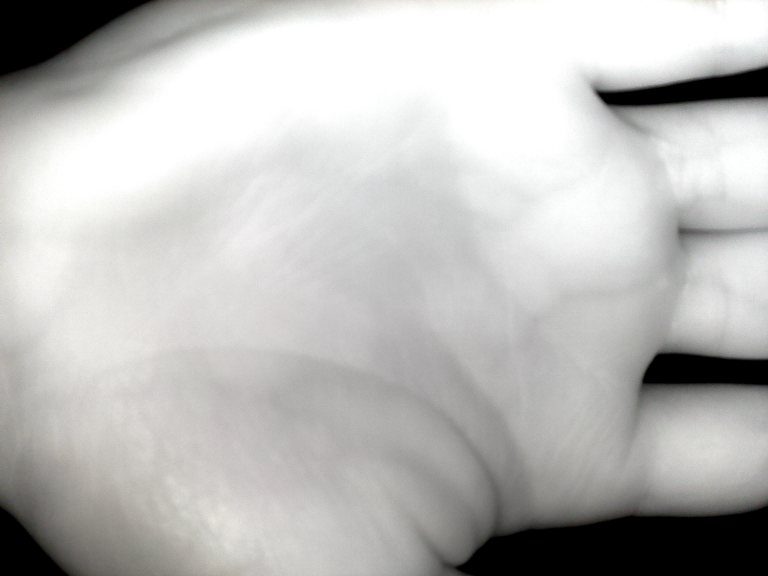
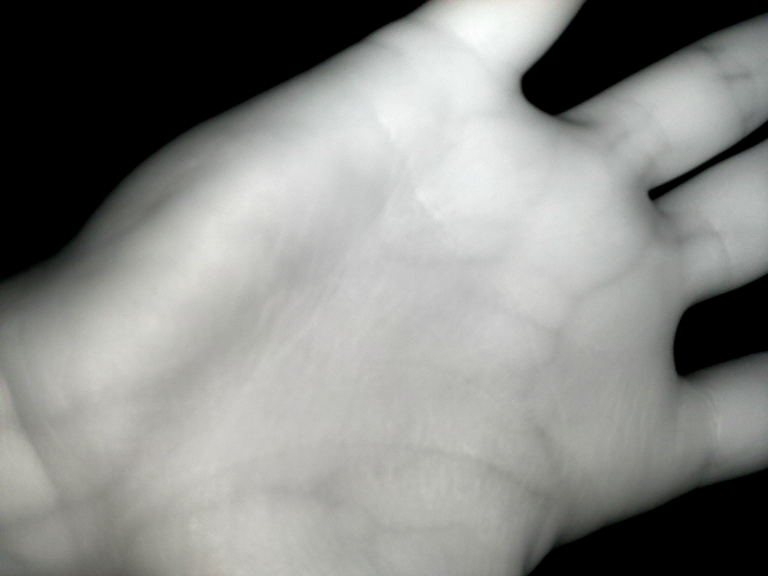
18:16

diff --git a/Ocvpydeneme.py b/Ocvpydeneme.py
@@ -2,6 +2,7 @@ import cv2
 import sys
 import os
 import picamera
+import numpy as np
 from time import sleep
 camera=picamera.PiCamera()
 camera.resolution = (768,576)
@@ -10,21 +11,15 @@ camera.sharpness=100
 camera.capture('denemedamar.png')
 sleep(0.042)
 src=cv2.imread('denemedamar.png')
-tmp=cv2.cvtColor(src,cv2.COLOR_BGR2GRAY)
-_,alpha=cv2.threshold(tmp,50,255,cv2.THRESH_BINARY)
-b,g,r=cv2.split(src)
-rgba=[b,g,r,alpha]
-dst=cv2.merge(rgba,4)
-dstg=cv2.cvtColor(dst,cv2.COLOR_BGR2GRAY)
-cv2.imwrite('test.png',dst)
+dstg=cv2.cvtColor(src,cv2.COLOR_BGR2GRAY)
+cv2.imwrite('test.png',dstg)
 img=cv2.imread('test.png')
-imgray=cv2.cvtColor(img,cv2.COLOR_BGR2GRAY)
-cv2.imwrite('testgray.png',imgray)
-equ=cv2.equalizeHist(dstg)
+equ=cv2.calcHist([img],[0],None,[256],[30,256])
 cv2.imwrite('graywhist.png',equ)
+img2=cv2.imread('graywhist.png',cv2.IMREAD_GRAYSCALE)
 clahe=cv2.createCLAHE(clipLimit=4.0,tileGridSize=(8,8))
-cl1=clahe.apply(dstg)
-cv2.imwrite('clahevein.png',dstg)
+cl1=clahe.apply(img2)
+cv2.imwrite('clahevein.png',cl1)
 bnw=cv2.imread('clahevein.png',cv2.IMREAD_GRAYSCALE)
-(thresh,imbw)=cv2.threshold(bnw,45,255,cv2.THRESH_BINARY_INV)
-cv2.imwrite('bwdeneme.png',imbw)
+thresh=cv2.adaptiveThreshold(bnw,255,cv2.ADAPTIVE_THRESH_GAUSSIAN_C,cv2.THRESH_BINARY,11,2)
+cv2.imwrite('bwdeneme.png',thresh)
